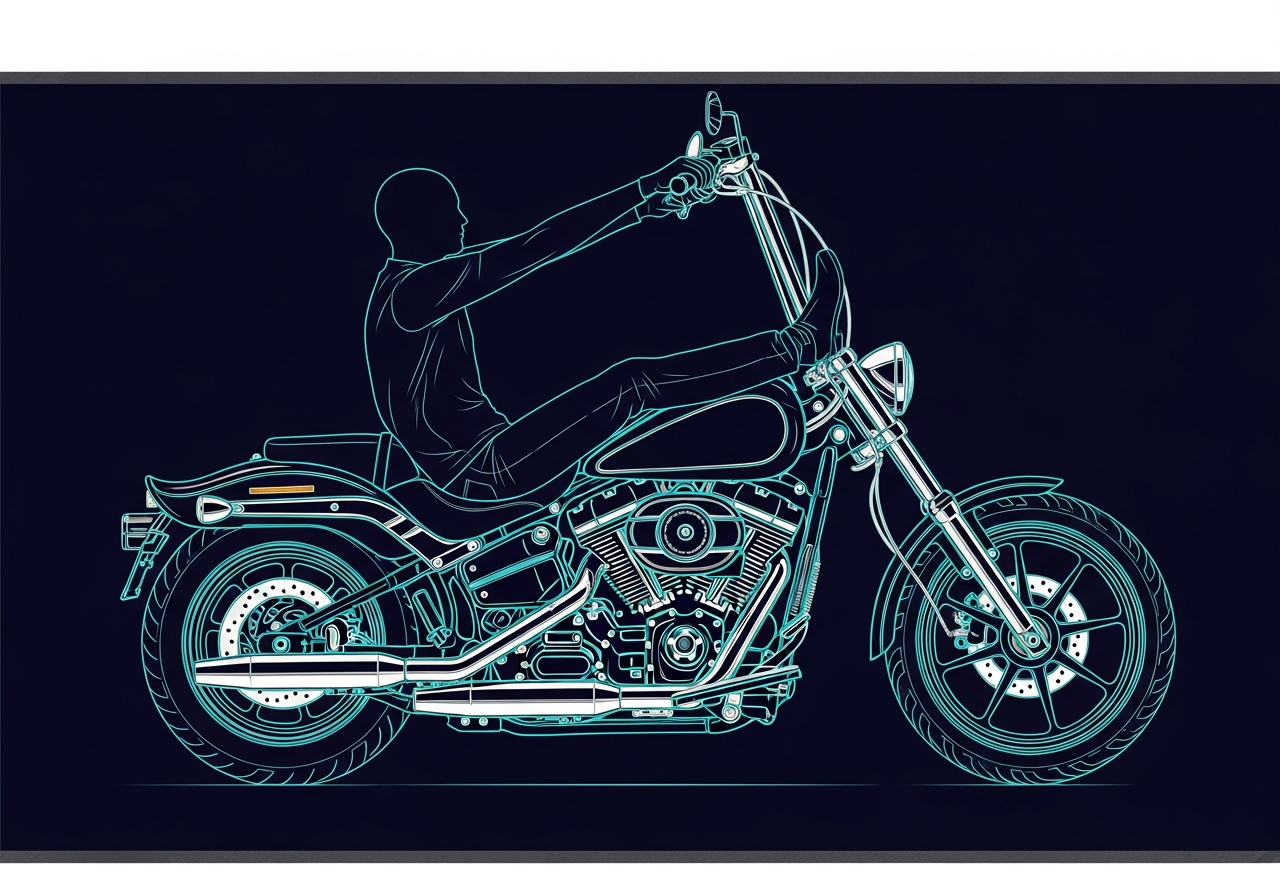
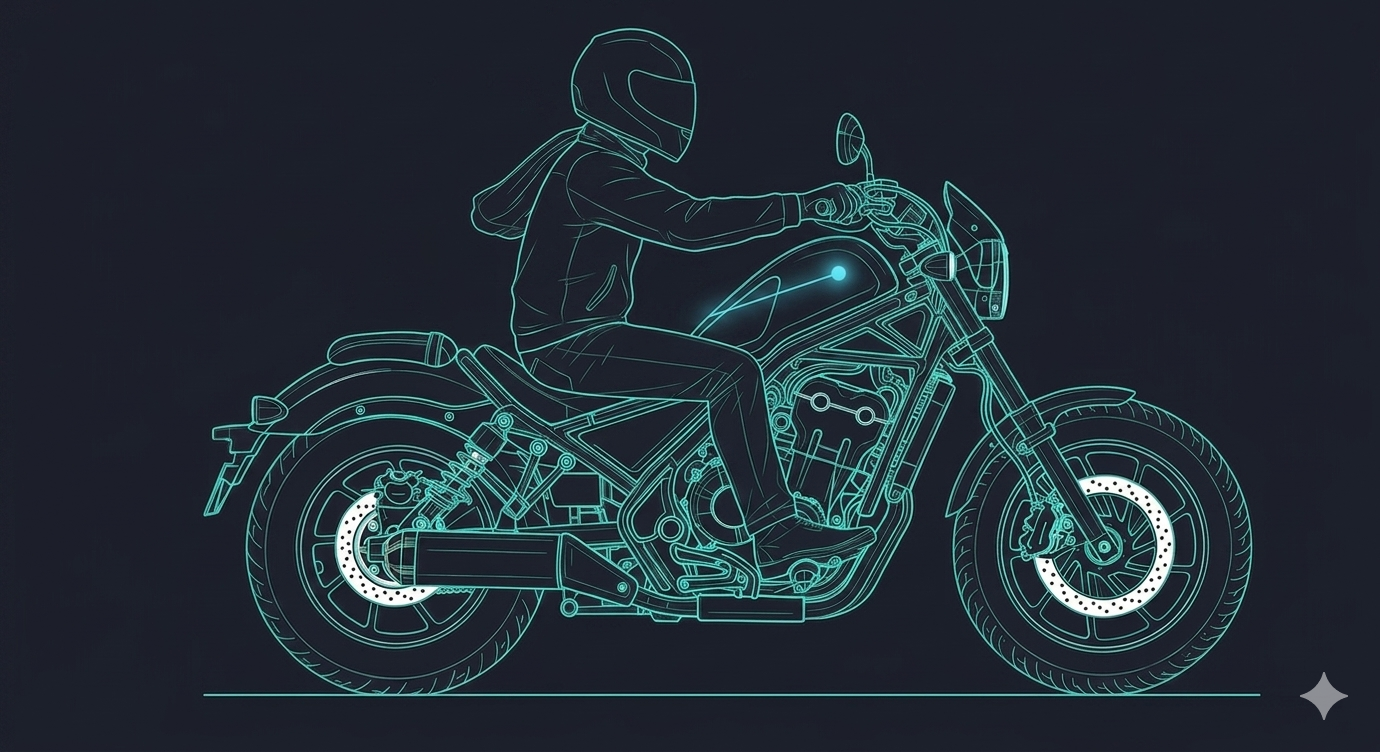
Cross-link blog articles and add rider triangle visual to Three T's
Three T's now shows the rider-triangle-types diagram in T1 with a
paragraph explaining upright/tucked/relaxed shapes. All three blogs
(Three T's, FITS, Rider Triangle) have consistent footer navigation
linking to each other and the FITS tool.

diff --git a/blog/three-ts.html b/blog/three-ts.html
@@ -54,7 +54,11 @@
 
   <img src="../assets/images/blog/slide-03-rider-triangle.png" alt="Rider Triangle">
 
-  <p>The technical term is the <strong>Rider Triangle</strong> — the shape formed between your hands, hips, and feet on the bike. If that triangle is wrong — too stretched, too cramped — you'll get tired fast. On a long ride, bad ergonomics cause fatigue faster than bad roads.</p>
+  <p>The technical term is the <strong><a href="rider-triangle.html">Rider Triangle</a></strong> — the shape formed between your hands, hips, and feet on the bike. If that triangle is wrong — too stretched, too cramped — you'll get tired fast. On a long ride, bad ergonomics cause fatigue faster than bad roads.</p>
+
+  <img src="../assets/images/blog/rider-triangle-types.png" alt="Three Rider Triangle types — Upright, Tucked, and Relaxed" style="margin:24px 0;">
+
+  <p>Different bikes create different triangles. An <strong>Upright</strong> triangle (ADV bikes) keeps your back straight for all-day comfort. A <strong>Tucked</strong> triangle (sport bikes) folds you over the tank for aerodynamics but kills your wrists. A <strong>Relaxed</strong> triangle (cruisers) pushes your feet forward — comfy at first, but your spine absorbs every bump. Read the full breakdown in <a href="rider-triangle.html">The Rider Triangle</a>.</p>
 
   <p><strong>How to test at home:</strong> Sit on a dining chair. Feet flat? Arms comfortable reaching forward? That's roughly a 780-800mm seat height. Add a cushion — that's about 810mm. Now you know your range.</p>
 
@@ -109,6 +113,10 @@
   <p>The Three T's narrow 47 categories down to a physical fit. But that's only half the answer. The other half: does the bike match your <strong>lifestyle</strong>?</p>
 
   <p>That's where <a href="fits.html">F.I.T.S.</a> comes in.</p>
+
+  <hr>
+
+  <p>Read more: <a href="rider-triangle.html">The Rider Triangle</a> | <a href="fits.html">F.I.T.S.</a> | <a href="../tools/fits.html">Try the FITS Tool</a></p>
 
 </main>
 

diff --git a/blog/fits.html b/blog/fits.html
@@ -114,7 +114,7 @@
 
   <p><strong>15 minutes (1)</strong> &rarr; Quick commute. Comfort doesn't matter.</p>
 
-  <p><strong>6+ hours (5)</strong> &rarr; All-day rides. Your back, wrists, and backside need to survive the distance.</p>
+  <p><strong>6+ hours (5)</strong> &rarr; All-day rides. Your back, wrists, and backside need to survive the distance. This is where the <a href="rider-triangle.html">Rider Triangle</a> matters most — an upright triangle lets you ride all day, while a tucked triangle has you stopping every hour.</p>
 
   <p><em>High S bikes: Adventure, Touring, Sport Tourer</em></p>
 
@@ -238,6 +238,10 @@
   <p>The <a href="three-ts.html">Three T's</a> ask: <em>can I ride this?</em> FITS asks: <em>should I ride this?</em></p>
 
   <p>Together they turn 47 categories and 200 brands into a clear answer.</p>
+
+  <hr>
+
+  <p>Read more: <a href="three-ts.html">The Three T's</a> | <a href="rider-triangle.html">The Rider Triangle</a> | <a href="../tools/fits.html">Try the FITS Tool</a></p>
 
 </main>
 